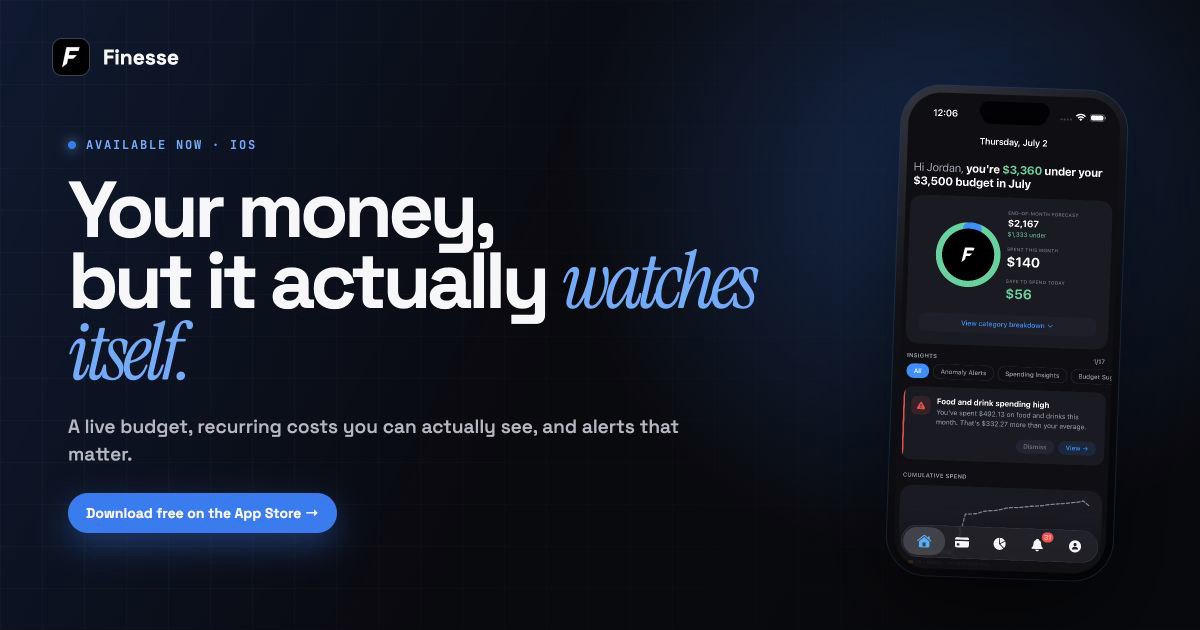
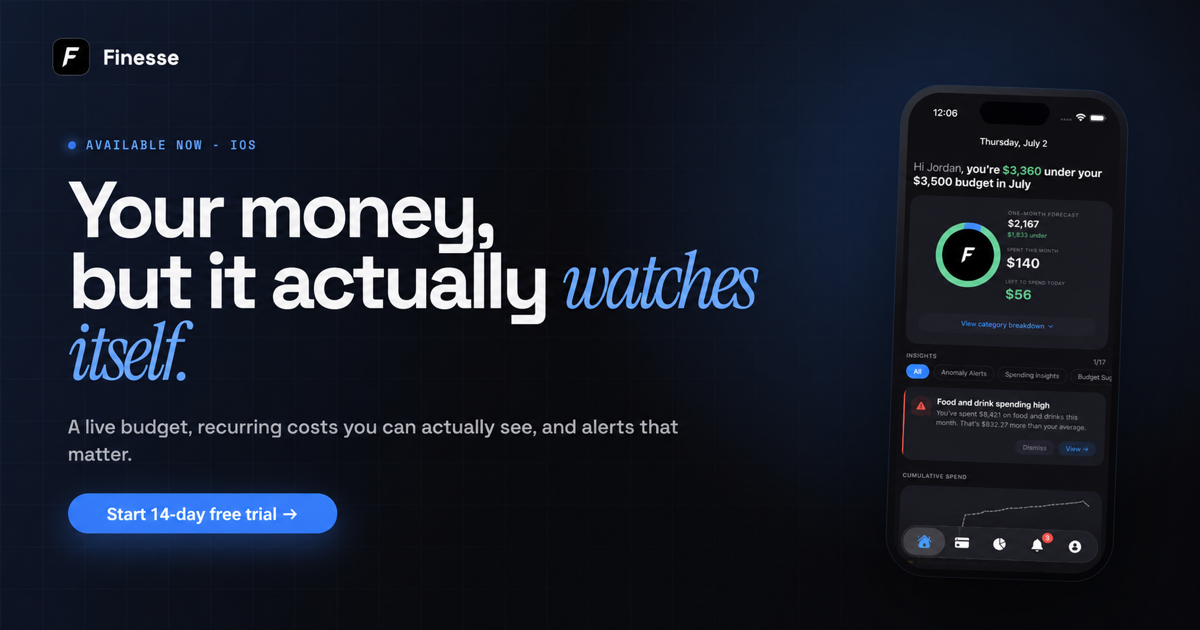
Update paid pricing and interactive demo messaging

diff --git a/index.html b/index.html
@@ -5,7 +5,7 @@
   <meta name="viewport" content="width=device-width, initial-scale=1">
   <meta name="theme-color" content="#0b0b10">
   <title>Finesse — money clarity without the busywork</title>
-  <meta name="description" content="Finesse watches your connected accounts, builds practical budgets, finds recurring costs, and flags unusual spending. Available free on iOS.">
+  <meta name="description" content="Finesse watches your connected accounts, builds practical budgets, finds recurring costs, and flags unusual spending. Start a 14-day free trial on iOS or explore the interactive demo.">
   <link rel="canonical" href="https://finessefinance.us/">
 
   <meta property="og:type" content="website">
@@ -34,12 +34,27 @@
     "applicationCategory": "FinanceApplication",
     "url": "https://finessefinance.us/",
     "downloadUrl": "https://apps.apple.com/us/app/finesse-finance/id6771177015",
-    "offers": {
-      "@type": "Offer",
-      "price": "0",
-      "priceCurrency": "USD"
-    },
-    "description": "Finesse watches connected accounts, builds practical budgets, finds recurring costs, and flags unusual spending."
+    "offers": [
+      {
+        "@type": "Offer",
+        "name": "Weekly subscription",
+        "price": "3.99",
+        "priceCurrency": "USD"
+      },
+      {
+        "@type": "Offer",
+        "name": "Monthly subscription",
+        "price": "7.99",
+        "priceCurrency": "USD"
+      },
+      {
+        "@type": "Offer",
+        "name": "Annual subscription",
+        "price": "59.99",
+        "priceCurrency": "USD"
+      }
+    ],
+    "description": "Finesse watches connected accounts, builds practical budgets, finds recurring costs, and flags unusual spending. A 14-day free trial is available before a paid subscription begins."
   }
   </script>
   <script type="application/ld+json">
@@ -55,7 +70,7 @@
       {
         "@type": "Question",
         "name": "What does Finesse cost?",
-        "acceptedAnswer": {"@type": "Answer", "text": "Every core budgeting feature is free. Optional Pro monitoring is available weekly, monthly, or annually."}
+        "acceptedAnswer": {"@type": "Answer", "text": "Finesse includes a 14-day free trial with full app access. After the trial, continue with a paid weekly, monthly, or annual subscription."}
       },
       {
         "@type": "Question",
@@ -82,7 +97,7 @@
       </a>
 
       <div class="nav__links">
-        <a href="#features">Features</a>
+        <a href="#features">Interactive demo</a>
         <a href="#security">Security</a>
         <a href="#pricing">Pricing</a>
         <a href="#faq">FAQ</a>
@@ -112,11 +127,11 @@
               <svg aria-hidden="true" viewBox="0 0 24 24"><path d="M16.5 12.7c0-2.4 2-3.6 2.1-3.7-1.1-1.7-2.9-1.9-3.6-1.9-1.5-.2-3 .9-3.8.9-.8 0-2-1-3.3-1-1.7 0-3.3 1-4.2 2.5-1.8 3.1-.5 7.7 1.3 10.2.9 1.2 1.9 2.6 3.2 2.5 1.3-.1 1.8-.8 3.4-.8 1.6 0 2 .8 3.4.8 1.4 0 2.3-1.2 3.1-2.5 1-1.4 1.4-2.8 1.4-2.9-.1 0-3-.9-3-4.1ZM14 5.5c.7-.9 1.2-2.1 1.1-3.3-1.1 0-2.4.7-3.2 1.6-.7.8-1.3 2-1.1 3.1 1.2.1 2.5-.6 3.2-1.4Z"/></svg>
               <span><small>Download on the</small>App Store</span>
             </a>
-            <a class="button button--ghost" href="#features">See how it works</a>
+            <a class="button button--ghost" href="#features">View interactive demo</a>
           </div>
 
           <ul class="hero__trust reveal" aria-label="Product commitments">
-            <li><svg aria-hidden="true" viewBox="0 0 24 24"><path d="m5 12 4 4L19 6"/></svg>Free budgeting</li>
+            <li><svg aria-hidden="true" viewBox="0 0 24 24"><path d="m5 12 4 4L19 6"/></svg>14-day free trial</li>
             <li><svg aria-hidden="true" viewBox="0 0 24 24"><path d="m5 12 4 4L19 6"/></svg>Bank links by Plaid</li>
             <li><svg aria-hidden="true" viewBox="0 0 24 24"><path d="m5 12 4 4L19 6"/></svg>No ad tracking</li>
           </ul>
@@ -137,7 +152,7 @@
     <section class="proof-bar" aria-label="Why people choose Finesse">
       <div class="wrap proof-bar__grid">
         <div><strong>12K+</strong><span>bank and card connections supported through Plaid</span></div>
-        <div><strong>$0</strong><span>for budgets, transactions, recurring costs, and insights</span></div>
+        <div><strong>14 days</strong><span>of full app access before your paid subscription begins</span></div>
         <div><strong>0</strong><span>bank passwords received or stored by Finesse</span></div>
       </div>
     </section>
@@ -145,9 +160,9 @@
     <section class="section" id="features">
       <div class="wrap">
         <div class="section-heading reveal">
-          <div class="eyebrow"><span class="eyebrow__dot"></span>Inside the app</div>
-          <h2>Six clearer ways to understand <em>your money.</em></h2>
-          <p>Explore the screens that turn everyday transactions into useful decisions. No spreadsheet upkeep required.</p>
+          <div class="eyebrow"><span class="eyebrow__dot"></span>Interactive demo</div>
+          <h2>Explore six clearer ways to understand <em>your money.</em></h2>
+          <p>Use the interactive demo to preview the features that turn everyday transactions into useful decisions.</p>
         </div>
 
         <div class="feature-explorer reveal">
@@ -179,7 +194,7 @@
                 <img data-feature-image src="./assets/marketing/screen-v2-home.png" width="1260" height="2736" decoding="async" alt="Finesse home screen with forecast and safe-to-spend summary">
               </div>
             </div>
-            <p class="feature-preview__hint">Choose a feature to preview it</p>
+            <p class="feature-preview__hint">Choose a feature in the interactive demo</p>
           </div>
         </div>
       </div>
@@ -248,41 +263,26 @@
         <div class="pricing__intro reveal">
           <div class="section-heading">
             <div class="eyebrow"><span class="eyebrow__dot"></span>Simple pricing</div>
-            <h2>Start free. Go Pro when you want <em>more oversight.</em></h2>
-            <p>Everyday money clarity stays free. Pro adds continuous monitoring and more ways to catch what needs your attention.</p>
+            <h2>One subscription. Choose <em>your billing cycle.</em></h2>
+            <p>Explore the features in the interactive demo first. When you’re ready, choose a paid Finesse subscription; eligible new subscribers begin with a 14-day free trial.</p>
           </div>
 
-          <div class="pricing-toggle" role="group" aria-label="Choose a Pro billing period">
+          <div class="pricing-toggle" role="group" aria-label="Choose a Finesse billing period">
             <button type="button" data-price-cycle="weekly" aria-pressed="false">Weekly</button>
             <button type="button" class="is-active" data-price-cycle="monthly" aria-pressed="true">Monthly</button>
-            <button type="button" data-price-cycle="annual" aria-pressed="false">Annual <span>Save 17%</span></button>
+            <button type="button" data-price-cycle="annual" aria-pressed="false">Annual <span>Save 37%</span></button>
           </div>
         </div>
 
-        <div class="pricing-grid">
-          <article class="price-card reveal">
-            <div class="price-card__topline"><span>Free</span><small>For everyday clarity</small></div>
-            <div class="price-card__price"><strong>$0</strong><span>forever</span></div>
-            <p>Everything you need to understand your month without maintaining a spreadsheet.</p>
-            <a class="button button--ghost price-card__cta" href="https://apps.apple.com/us/app/finesse-finance/id6771177015?itscg=30200&amp;itsct=apps_box_badge&amp;mttnsubad=6771177015" target="_blank" rel="noopener">Download free</a>
+        <div class="pricing-grid pricing-grid--single">
+          <article class="price-card price-card--pro reveal">
+            <div class="price-card__badge">Paid subscription</div>
+            <div class="price-card__topline"><span>Finesse subscription</span><small>Choose weekly, monthly, or annual billing</small></div>
+            <div class="price-card__price"><strong data-pro-price>$7.99</strong><span data-pro-period>/ month</span></div>
+            <p data-pro-note>Billed monthly after your 14-day free trial. Cancel anytime.</p>
+            <a class="button price-card__cta" href="https://apps.apple.com/us/app/finesse-finance/id6771177015?itscg=30200&amp;itsct=apps_box_badge&amp;mttnsubad=6771177015" target="_blank" rel="noopener">Get Finesse</a>
             <ul class="price-card__features">
               <li>Budget ring and monthly forecast</li>
-              <li>Safe-to-spend guidance</li>
-              <li>Transaction tagging</li>
-              <li>Recurring cost detection</li>
-              <li>Category insights</li>
-              <li>Unlimited bank links through Plaid</li>
-            </ul>
-          </article>
-
-          <article class="price-card price-card--pro reveal">
-            <div class="price-card__badge">Most popular</div>
-            <div class="price-card__topline"><span>Pro</span><small>For continuous monitoring</small></div>
-            <div class="price-card__price"><strong data-pro-price>$9.99</strong><span data-pro-period>/ month</span></div>
-            <p data-pro-note>Billed monthly. Cancel anytime.</p>
-            <a class="button price-card__cta" href="https://apps.apple.com/us/app/finesse-finance/id6771177015?itscg=30200&amp;itsct=apps_box_badge&amp;mttnsubad=6771177015" target="_blank" rel="noopener">Get Finesse Pro</a>
-            <ul class="price-card__features">
-              <li>Everything in Free</li>
               <li>Continuous account monitoring</li>
               <li>Severity-tagged anomaly alerts</li>
               <li>Alerts you define yourself</li>
@@ -292,7 +292,7 @@
           </article>
         </div>
 
-        <p class="pricing__note reveal">Prices are in USD and may vary by App Store region. Subscriptions renew automatically unless canceled through your Apple account settings.</p>
+        <p class="pricing__note reveal">Prices are in USD and may vary by App Store region. At the end of the 14-day free trial, your selected subscription begins and renews automatically unless canceled through your Apple account settings.</p>
       </div>
     </section>
 
@@ -306,15 +306,15 @@
         <div class="faq-list reveal">
           <details open>
             <summary>Can I download Finesse now?</summary>
-            <p>Yes. Finesse is live on the iOS App Store today. Download it free and connect your first account in a few minutes.</p>
+            <p>Yes. Finesse is live on the iOS App Store today. Start your 14-day free trial and connect your first account in a few minutes.</p>
           </details>
           <details>
             <summary>What does it cost?</summary>
-            <p>Budgets, transactions, recurring-cost detection, and spending insights are free. Optional Pro monitoring is $3.99 weekly, $9.99 monthly, or $99.99 annually.</p>
+            <p>Finesse includes a 14-day free trial with full app access. After the trial, continue for $3.99 weekly, $7.99 monthly, or $59.99 annually.</p>
           </details>
           <details>
-            <summary>What does Pro add?</summary>
-            <p>Pro adds around-the-clock account monitoring, anomaly and custom alerts, profile-based alerting, and deeper insights.</p>
+            <summary>Can I explore Finesse before installing?</summary>
+            <p>Yes. Use the <a href="#features">interactive demo</a> to preview budgeting, daily recaps, recurring costs, alerts, and spending insights on this website.</p>
           </details>
           <details>
             <summary>Is my bank data safe?</summary>
@@ -331,13 +331,14 @@
     <section class="download" id="download">
       <div class="wrap download__card reveal">
         <div class="download__copy">
-          <div class="eyebrow"><span class="eyebrow__dot"></span>Free on the App Store</div>
+          <div class="eyebrow"><span class="eyebrow__dot"></span>14-day free trial</div>
           <h2>Give your money a clearer <em>next move.</em></h2>
-          <p>Start with every budgeting feature free. Upgrade only if you want continuous monitoring and advanced alerts.</p>
+          <p>Get full access for 14 days. After your trial, keep using Finesse with a paid weekly, monthly, or annual subscription.</p>
           <a class="store-button" href="https://apps.apple.com/us/app/finesse-finance/id6771177015?itscg=30200&amp;itsct=apps_box_badge&amp;mttnsubad=6771177015" target="_blank" rel="noopener">
             <svg aria-hidden="true" viewBox="0 0 24 24"><path d="M16.5 12.7c0-2.4 2-3.6 2.1-3.7-1.1-1.7-2.9-1.9-3.6-1.9-1.5-.2-3 .9-3.8.9-.8 0-2-1-3.3-1-1.7 0-3.3 1-4.2 2.5-1.8 3.1-.5 7.7 1.3 10.2.9 1.2 1.9 2.6 3.2 2.5 1.3-.1 1.8-.8 3.4-.8 1.6 0 2 .8 3.4.8 1.4 0 2.3-1.2 3.1-2.5 1-1.4 1.4-2.8 1.4-2.9-.1 0-3-.9-3-4.1ZM14 5.5c.7-.9 1.2-2.1 1.1-3.3-1.1 0-2.4.7-3.2 1.6-.7.8-1.3 2-1.1 3.1 1.2.1 2.5-.6 3.2-1.4Z"/></svg>
             <span><small>Download on the</small>App Store</span>
           </a>
+          <a class="text-link" href="#features">View the interactive demo <span aria-hidden="true">→</span></a>
         </div>
         <div class="download__qr" aria-label="QR code to download Finesse from the App Store">
           <img src="./assets/qr-code.png" width="400" height="400" loading="lazy" decoding="async" alt="Scan to download Finesse on the App Store">

diff --git a/terms.html b/terms.html
@@ -138,7 +138,7 @@ footer { border-top: 1px solid var(--border); padding: 40px 0; }
   <div class="wrap">
     <div class="doc__eyebrow">Legal</div>
     <h1 class="doc__title">Terms of <em>Service</em></h1>
-    <div class="doc__meta">Last updated: June 3, 2026 · Effective: June 3, 2026</div>
+    <div class="doc__meta">Last updated: September 11, 2026 · Effective: September 11, 2026</div>
 
     <p class="doc__intro">
       These Terms of Service ("Terms") are a binding agreement between you and
@@ -234,14 +234,14 @@ footer { border-top: 1px solid var(--border); padding: 40px 0; }
 
     <h2 id="subscriptions"><span class="n">06</span>Subscriptions &amp; billing</h2>
     <p>
-      Finesse may offer paid subscriptions that unlock premium features. Paid plans are sold through
+      Finesse is offered through paid subscriptions following a 14-day free trial with full app access. Paid plans are sold through
       <strong>Apple's in-app purchase</strong>, and billing is handled by Apple under your Apple ID. By
       subscribing, you agree to the applicable price and billing terms shown at the point of purchase.
     </p>
     <ul>
       <li><strong>Auto-renewal.</strong> Subscriptions automatically renew for the same period unless canceled at least 24 hours before the end of the current period. Your Apple ID is charged for renewal within 24 hours prior to the end of the period.</li>
       <li><strong>Managing &amp; canceling.</strong> You can manage or cancel your subscription anytime in your Apple ID account settings on your device. Cancellation takes effect at the end of the current billing period.</li>
-      <li><strong>Free trials &amp; founder pricing.</strong> If we offer a free trial or promotional/founder pricing, the applicable terms are disclosed at sign-up. Any unused portion of a free trial is forfeited when you purchase a subscription.</li>
+      <li><strong>14-day free trial.</strong> Eligible new subscribers receive full app access for 14 days. Unless canceled before the trial ends, the selected paid subscription begins automatically and renews according to the billing period shown at sign-up. Any unused portion of the trial is forfeited if you purchase a subscription before it ends.</li>
       <li><strong>Refunds.</strong> Purchases are processed by Apple, and refunds are subject to Apple's policies. We generally do not control or issue refunds for in-app purchases.</li>
     </ul>
 

diff --git a/support.html b/support.html
@@ -232,7 +232,9 @@ footer { border-top: 1px solid var(--border); padding: 40px 0; }
       <details>
         <summary>How do subscriptions and billing work?</summary>
         <div class="faq__body">
-          <p>Finesse subscriptions are processed by <strong>Apple</strong> through in-app purchase. To view,
+          <p>Finesse includes a <strong>14-day free trial</strong> with full app access. After the trial, your
+          selected paid subscription begins automatically unless you cancel it through your Apple account settings.
+          Finesse subscriptions are processed by <strong>Apple</strong> through in-app purchase. To view,
           change, or cancel your plan, open the iOS <strong>Settings</strong> app → tap your name →
           <strong>Subscriptions</strong> → <strong>Finesse</strong>. Refund requests are handled by Apple via
           <a href="https://reportaproblem.apple.com" target="_blank" rel="noopener">reportaproblem.apple.com</a>.</p>

diff --git a/assets/site.js b/assets/site.js
@@ -87,17 +87,17 @@
     weekly: {
       price: '$3.99',
       period: '/ week',
-      note: 'Billed weekly. Cancel anytime.'
+      note: 'Billed weekly after your 14-day free trial. Cancel anytime.'
     },
     monthly: {
-      price: '$9.99',
+      price: '$7.99',
       period: '/ month',
-      note: 'Billed monthly. Cancel anytime.'
+      note: 'Billed monthly after your 14-day free trial. Cancel anytime.'
     },
     annual: {
-      price: '$99.99',
+      price: '$59.99',
       period: '/ year',
-      note: 'Billed annually — that’s $8.33 per month.'
+      note: 'Billed annually after your 14-day free trial — that’s $5.00 per month.'
     }
   };
 

diff --git a/assets/site.css b/assets/site.css
@@ -763,6 +763,11 @@ h2 em {
   margin-top: 58px;
 }
 
+.pricing-grid--single {
+  grid-template-columns: minmax(0, 680px);
+  justify-content: center;
+}
+
 .price-card {
   position: relative;
   padding: clamp(28px, 4vw, 46px);
